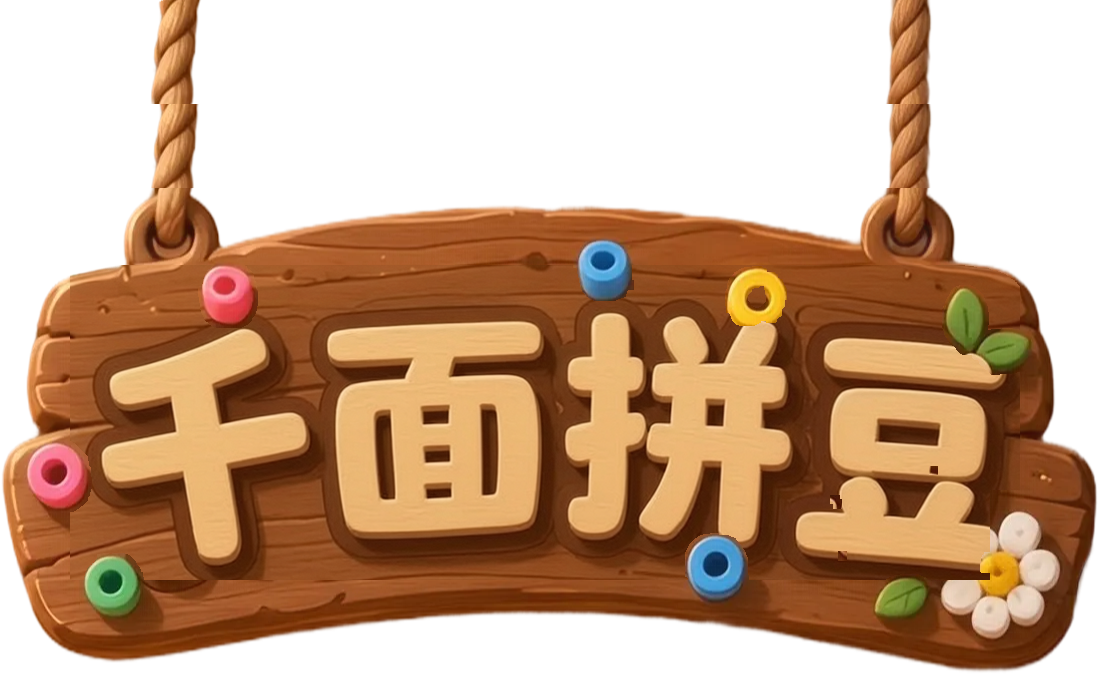
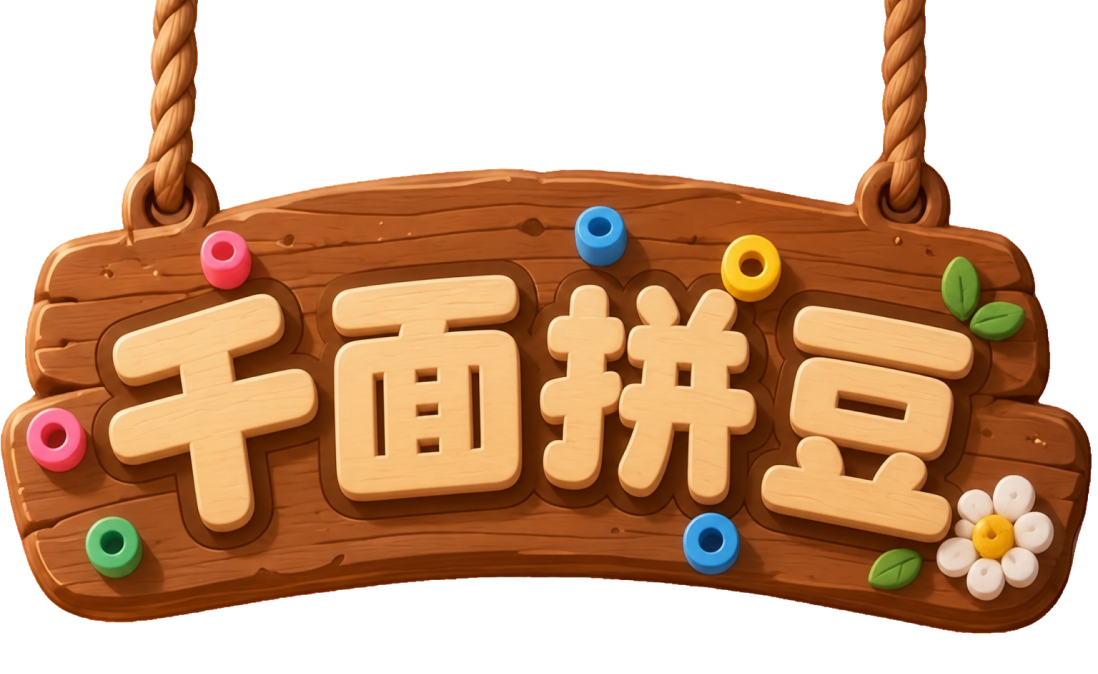
chore(art): 重下载 Figma 招牌（去背重生成）+ 同步绳高 94（WXG-T-585 续）
- `figma.mjs img` 节点 `2:82` @scale 2 PNG 纯下载、零重绘，覆盖
  `final/assets/menu/background/ui_menu_signboard_figma@2x.png`
- 新图 sha256 7d875a58…（旧 0217f5d1…），尺寸仍 1098×674 RGBA；
  alpha=0 40.20%（旧 39.02%）、alpha=255 58.00%（旧 20.18%）⇒ 去背更干净
- 逐行重扫板体上沿 108 → 94（绳缩短 14 px）；`MENU_V3.boardOff` 同批改 94
  ⇒ 主流四档板体距 safe 线收到 4 px，SE/Android 由 68/48 收到 54/34
- Cocos 投放件 `ui_menu_signboard.png` 暂仍为旧版（bbox y 0..335 vs 新图应 0..316.5），
  待确认后按 `menu-v2-ship.py` 重出；`check:cocos-mask` 未因此失败
- verify 23/23

diff --git a/games/beads/cocos/assets/scripts/game/config/tuning/menu.ts b/games/beads/cocos/assets/scripts/game/config/tuning/menu.ts
@@ -498,12 +498,13 @@ export const MENU_V3 = {
      */
     boardGap: 4,
     /**
-     * 招牌整图 549×337，**板体（木牌）上沿实测 = 图内 y 108**（`ui_menu_signboard_figma@2x.png`
-     * 逐行 alpha/棕色宽度扫描：y≤100 每行仅 ~80 图 px 宽 = 两根绳；y=108 起棕色宽 >400 图 px = 板体）。
-     * ⇒ 绳高 108，⛔ 不是「337 − 板体高 295 = 42」那个旧假设（错的 66 px，正是板体没贴住 safe 线的真因）。
+     * 招牌整图 549×337，**板体（木牌）上沿实测 = 图内 y 94**。
+     * 2026-11-06 Figma 重新生成并重下载后逐行重扫：y≤85 每行仅 ~80 图 px 宽 = 两根绳；
+     * y=94 起棕色宽 >400 图 px = 板体。旧版该值是 108（去背重生成后绳缩短 14 px），
+     * 更早还误按「337 − 板体高 295 = 42」推过一次 —— ⛔ 换招牌图必须同批重扫本值。
      * `signTop = boardTop − boardOff` = 整图顶（绳顶）。
      */
-    boardOff: 108,
+    boardOff: 94,
     /**
      * CTA 底距**底安全区上缘** = **104**（用户 2026-11-06 裁：拿 SE 档的距离作为全档统一值）。
      * 反推 = SE `H=1334, sb=0, CTA 底 1230` ⇒ `1334 − 0 − 1230 = 104`；
@@ -524,9 +525,9 @@ export const MENU_V3 = {
  * 2. **CTA 独立贴底** ⇒ `ctaBottom = H − sb − 104`（104 = SE 档实测距底安全区，
  *    用户 2026-11-06 裁「其他都保持这个距离」）；SE 自然回到 1230 ⇒ CTA 顶 1051
  *    盖进柜底 1058 共 7 px（概念图口径），⛔ 不再有档位特例；
- * 3. **招牌独立贴顶** ⇒ `boardTop = max(st + 4, 108)`：板体顶与 safe top 留**一点点缝**，
- *    下限 108 = 实测绳高 ⇒ `signTop ≥ 0`，绳子完整、绝不跑到屏幕外；
- *    ⚠ st 浅的档由下限接管（SE 缝 68、Android 48）；要这两档也只留一点点，需裁短绳段（美术侧，待裁）；
+ * 3. **招牌独立贴顶** ⇒ `boardTop = max(st + 4, 94)`：板体顶与 safe top 留**一点点缝**，
+ *    下限 94 = 新图实测绳高 ⇒ `signTop ≥ 0`，绳子完整、绝不跑到屏幕外；
+ *    ⚠ 绳缩短后主流四档缝隙已收到 4 px，仅 st 最浅的 SE 54 / Android 34 仍由下限接管；
  * 4. **顶栏四钮** ⇒ `topbarTop = max(signTop + 134, cap + 8)`：常规跟招牌，
  *    胶囊深的档由 `cap` 接管 ⇒ 右上两枚不压进原生胶囊区。
  *
@@ -541,7 +542,7 @@ export function menuV3Placement(H: number, st: number, cap: number, sb: number):
 } {
     const C = MENU_V3;
     // 板体顶 = safe top + 4（一点点缝），再受绳高下限约束 ⇒ `signTop ≥ 0`，绳子完整不出屏。
-    // ⚠ st 浅的档由下限接管（SE 缝 68 / Android 48），要再压需裁短绳段（美术侧，待裁）。
+    // ⚠ st 最浅的档由下限接管（SE 缝 54 / Android 34），要再压需裁短绳段（美术侧，待裁）。
     const boardTop = Math.max(st + C.boardGap, C.boardOff);
     const signTop = boardTop - C.boardOff;
     const ctaBottom = H - sb - C.ctaGap;

diff --git a/games/beads/src/config/tuning/menu.ts b/games/beads/src/config/tuning/menu.ts
@@ -498,12 +498,13 @@ export const MENU_V3 = {
      */
     boardGap: 4,
     /**
-     * 招牌整图 549×337，**板体（木牌）上沿实测 = 图内 y 108**（`ui_menu_signboard_figma@2x.png`
-     * 逐行 alpha/棕色宽度扫描：y≤100 每行仅 ~80 图 px 宽 = 两根绳；y=108 起棕色宽 >400 图 px = 板体）。
-     * ⇒ 绳高 108，⛔ 不是「337 − 板体高 295 = 42」那个旧假设（错的 66 px，正是板体没贴住 safe 线的真因）。
+     * 招牌整图 549×337，**板体（木牌）上沿实测 = 图内 y 94**。
+     * 2026-11-06 Figma 重新生成并重下载后逐行重扫：y≤85 每行仅 ~80 图 px 宽 = 两根绳；
+     * y=94 起棕色宽 >400 图 px = 板体。旧版该值是 108（去背重生成后绳缩短 14 px），
+     * 更早还误按「337 − 板体高 295 = 42」推过一次 —— ⛔ 换招牌图必须同批重扫本值。
      * `signTop = boardTop − boardOff` = 整图顶（绳顶）。
      */
-    boardOff: 108,
+    boardOff: 94,
     /**
      * CTA 底距**底安全区上缘** = **104**（用户 2026-11-06 裁：拿 SE 档的距离作为全档统一值）。
      * 反推 = SE `H=1334, sb=0, CTA 底 1230` ⇒ `1334 − 0 − 1230 = 104`；
@@ -524,9 +525,9 @@ export const MENU_V3 = {
  * 2. **CTA 独立贴底** ⇒ `ctaBottom = H − sb − 104`（104 = SE 档实测距底安全区，
  *    用户 2026-11-06 裁「其他都保持这个距离」）；SE 自然回到 1230 ⇒ CTA 顶 1051
  *    盖进柜底 1058 共 7 px（概念图口径），⛔ 不再有档位特例；
- * 3. **招牌独立贴顶** ⇒ `boardTop = max(st + 4, 108)`：板体顶与 safe top 留**一点点缝**，
- *    下限 108 = 实测绳高 ⇒ `signTop ≥ 0`，绳子完整、绝不跑到屏幕外；
- *    ⚠ st 浅的档由下限接管（SE 缝 68、Android 48）；要这两档也只留一点点，需裁短绳段（美术侧，待裁）；
+ * 3. **招牌独立贴顶** ⇒ `boardTop = max(st + 4, 94)`：板体顶与 safe top 留**一点点缝**，
+ *    下限 94 = 新图实测绳高 ⇒ `signTop ≥ 0`，绳子完整、绝不跑到屏幕外；
+ *    ⚠ 绳缩短后主流四档缝隙已收到 4 px，仅 st 最浅的 SE 54 / Android 34 仍由下限接管；
  * 4. **顶栏四钮** ⇒ `topbarTop = max(signTop + 134, cap + 8)`：常规跟招牌，
  *    胶囊深的档由 `cap` 接管 ⇒ 右上两枚不压进原生胶囊区。
  *
@@ -541,7 +542,7 @@ export function menuV3Placement(H: number, st: number, cap: number, sb: number):
 } {
     const C = MENU_V3;
     // 板体顶 = safe top + 4（一点点缝），再受绳高下限约束 ⇒ `signTop ≥ 0`，绳子完整不出屏。
-    // ⚠ st 浅的档由下限接管（SE 缝 68 / Android 48），要再压需裁短绳段（美术侧，待裁）。
+    // ⚠ st 最浅的档由下限接管（SE 缝 54 / Android 34），要再压需裁短绳段（美术侧，待裁）。
     const boardTop = Math.max(st + C.boardGap, C.boardOff);
     const signTop = boardTop - C.boardOff;
     const ctaBottom = H - sb - C.ctaGap;
